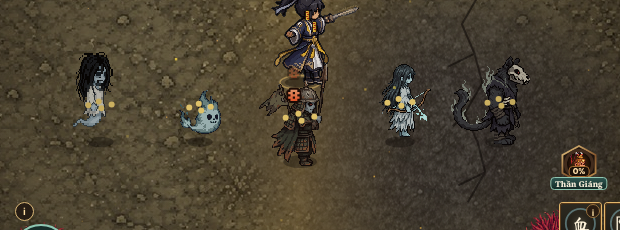
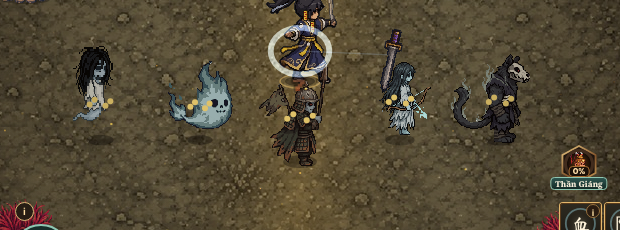
Ma Troi to len cho hop co quai
Claude-Session: https://claude.ai/code/session_01MYwTvK6dULdzXHFPeBSgyd

diff --git a/game/index.html b/game/index.html
@@ -1807,7 +1807,7 @@ function drawSpr(c,h,an,fi,x,y,f,sc,flash,alpha){const M=h.meta,A=M.anims[an]||M
  if(Q){const K=M.hq;c.imageSmoothingEnabled=true;c.imageSmoothingQuality='high';c.drawImage(Q,fr[0]*K,fr[1]*K,M.w*K,M.h*K,-M.ax,-M.ay,M.w,M.h)}
  else c.drawImage(flash&&h.flash?h.flash:h.img,fr[0],fr[1],M.w,M.h,-M.ax,-M.ay,M.w,M.h);c.restore()}
 /* quái dùng sprite gói Wuxia: [nhân vật, tỉ lệ] */
-const ESPR={boss:['quytuong',1.45],tieu:['vonghon',0.74],hoa:['matroi',0.55],can:['ambinh',0.78],xa:['oanhonxa',0.74],toc:['khuyen',0.8],elite:['quysai',0.95],tac:['vonghon',0.8],tacdao:['ambinh',0.82],tacxa:['oanhonxa',0.78],tacvuong:['quysai',1.3],soi:['khuyen',0.78],langvuong:['khuyen',1.35]};
+const ESPR={boss:['quytuong',1.45],tieu:['vonghon',0.74],hoa:['matroi',0.85],can:['ambinh',0.78],xa:['oanhonxa',0.74],toc:['khuyen',0.8],elite:['quysai',0.95],tac:['vonghon',0.8],tacdao:['ambinh',0.82],tacxa:['oanhonxa',0.78],tacvuong:['quysai',1.3],soi:['khuyen',0.78],langvuong:['khuyen',1.35]};
 /* 24/11 (chủ game: trùm phải thật nét). Phóng pixel art bằng hệ số lẻ làm pixel to nhỏ không đều, nhìn như vỡ nét. Với 7 trùm Âm Giới:
    (1) nếu tỉ lệ NGUYÊN theo pixel màn hình (n = làm tròn của hệ số × DPR × ZOOM) chỉ lệch kích cỡ tối đa 20% thì vẽ ở tỉ lệ nguyên, mỗi pixel ảnh = đúng n pixel màn hình (nét tuyệt đối);
    (2) nếu không thì giữ kích cỡ, dùng sheet phóng sẵn ×4 rồi thu về bằng lọc chất lượng cao (đều pixel, hơi mềm mép). */

diff --git a/CLAUDE.md b/CLAUDE.md
@@ -478,3 +478,4 @@ Chủ game gửi ảnh sảnh iPhone ngang (~664×307, trong trình duyệt nên
 - (25/11) **ĐÃ LẤY HÌNH TRÙM MỚI TỪ NHÁNH `claude/youthful-fermat-6hovsq`** (Claude kia làm tối 24/11 theo thiết kế mới của chủ game; lần gộp trước tao chỉ lấy `origin/main` nên còn bản cũ 20:05): Diêm Vương (303×241, có cả cảnh ngai + hồn + lửa), Phán Quan (122×176), Mạnh Bà (120×146), Ngưu Đầu (165×164). Chép 4 file `*_am.png`, khai báo `CHM` và `espScale`/`BOSS_T`/`BOSS_REL` (cả 7 trùm + 4 mini dùng chung một bậc nguyên, `diemvuong` thu 0,82) từ nhánh đó. Nhánh đó còn nhiều thứ khác chưa gộp (nối Âm Giới vào luồng chơi KIỂU KHÁC với bản của nhánh này, Quyền v2, Mao Sơn nam tạo lại 27 khung A/B/C, Bát Quái Bào...): cần chủ game quyết trước khi gộp. Thanh trùm "Hạ Ngưu Ma Vương" đã đổi theo tên trùm Âm Giới.
 
 - (25/11) **MA TRƠI VẼ LẠI cho hợp phong cách (chủ game: "nhìn không hợp phong cách")**: bản cũ chỉ 9 màu, xanh cyan sáng chói. PixelLab `edit-images-v2` 2 mẫu (seed 7, 21; đầu vào = bản cũ phóng mượt vào khung 96×96, `nguon/pixellab/amgioi/gen_matroi.py`, kết quả `mt/`), **20 lượt** (còn ~1.577). Chọn seed 21: ngọn lửa xám-xanh dịu, mặt đầu lâu hốc mắt tối, đuôi lửa rách, vài tàn lửa bay. `game/assets/matroi_am.png` 77×80, `ESPR.hoa=['matroi',0.55]` (giữ cỡ hiển thị như bản cũ). Bản cũ: `nguon/vfx_goc/matroi_am_cu.png`. Ảnh: `nguon/tham_chieu/matroi_thu_2_mau.png`, `matroi_moi_trong_game.png`. Mẫu seed 7 (không tàn lửa) còn ở `mt/s7.png` nếu muốn đổi.
+- (25/11) Ma Trơi to lên cho hợp cỡ quái: `ESPR.hoa` 0,55→0,85 (cao ngang Vong Hồn/Oan Hồn Xạ).
